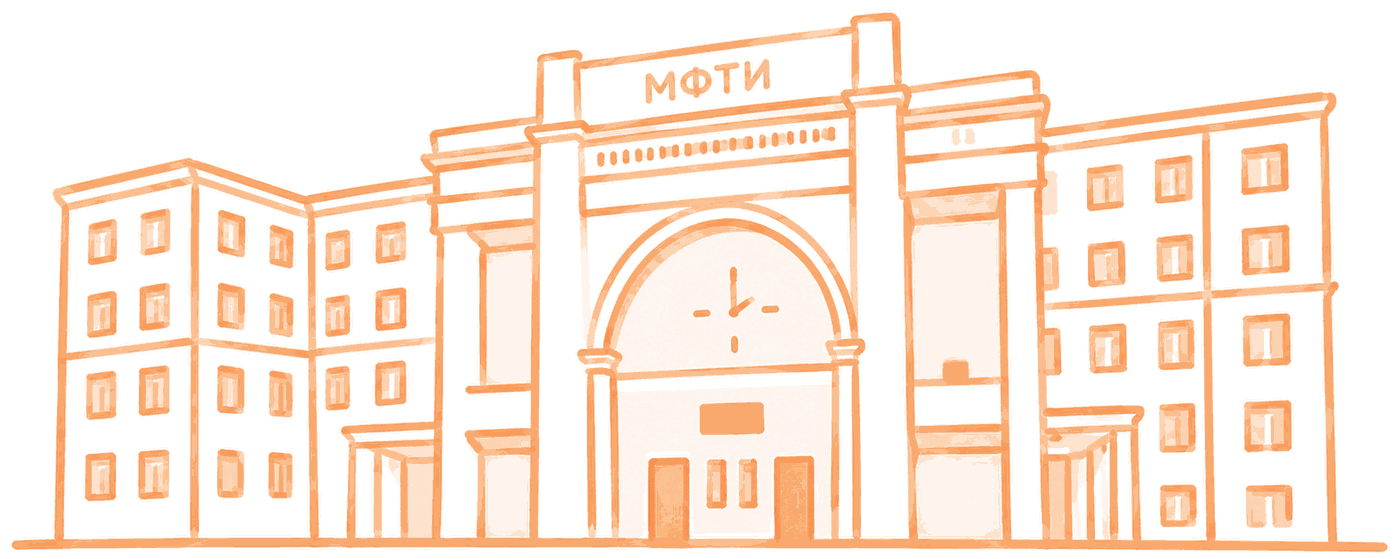
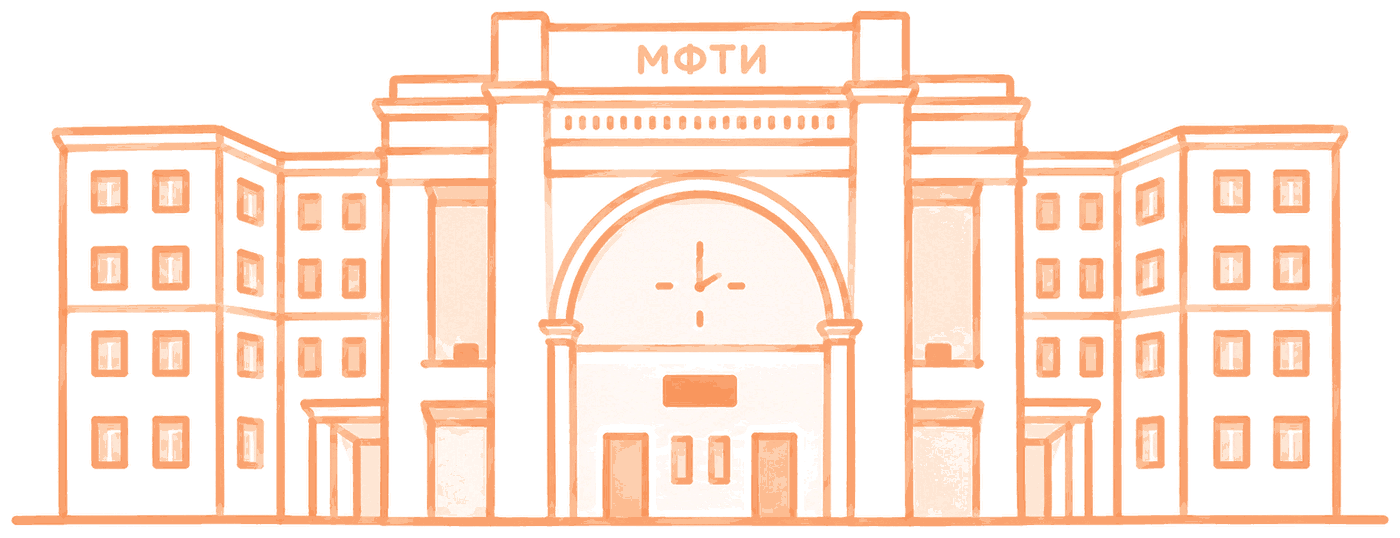
feat: здание МФТИ в анфас вместо вида сбоку

diff --git a/frontend/src/pages/NewProcurementPage.tsx b/frontend/src/pages/NewProcurementPage.tsx
@@ -67,7 +67,7 @@ export function NewProcurementPage() {
         <p className={styles.formats}>.docx, .pdf, .txt или .md, до 20&nbsp;МБ</p>
       </div>
       {/* Главное здание МФТИ стоит на нижнем краю, как горизонт; украшение, не содержимое */}
-      <img className={styles.building} src={buildingUrl} alt="" width={1400} height={559} />
+      <img className={styles.building} src={buildingUrl} alt="" width={1400} height={538} />
     </div>
   )
 }
